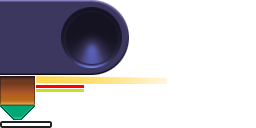
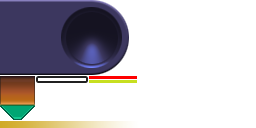
拉球效果优化

Changed region(s): [[0.125, 0.5938, 0.6562, 0.7188], [0.0, 0.9375, 0.4688, 1.0]]

diff --git a/ViolenceTable/bin/h5/Main.max.js b/ViolenceTable/bin/h5/Main.max.js
@@ -39893,7 +39893,8 @@ var TableView=(function(_super){
 	function TableView(){
 		this.ballList=null;
 		this.blockList=null;
-		this.WALL_POS=[[42,19,0,0,490,0,490,22,0,22],[528,47,0,0,26,0,26,880,0,880],[41,937,0,0,490,0,490,22,0,22],[16,52,0,0,26,0,26,880,0,880]];
+		this.WALL_POS=[];
+		// private const WALL_POS:Array=[[42,19,0,0,490,0,490,22,0,22],[528,47,0,0,26,0,26,880,0,880],[41,937,0,0,490,0,490,22,0,22],[16,52,0,0,26,0,26,880,0,880]];
 		this.WALL_POS2=[[0,0,0,0,490,0,490,22],[481,20,0,0,26,0,26,880],[0,880,0,0,490,0,490,22],[0,0,0,0,26,0,26,880]];
 		TableView.__super.call(this);
 	}
@@ -39945,11 +39946,11 @@ var TableView=(function(_super){
 
 	__proto.initBall=function(){
 		this.ballList=[];
-		for (var i=0;i < 10;i++){
-			var ball=this.addBall(200+100 *Math.floor(i / 5),300+100 *(i % 5),1,1);
+		for (var i=0;i < 1;i++){
+			var ball=this.addBall(280+100 *Math.floor(i / 5),600+100 *(i % 5),1,1);
 			ball.ballRotation=0;
 		};
-		var ball0=this.addBall(200,100,0,0);
+		var ball0=this.addBall(280,300,0,0);
 	}
 
 	/**
@@ -40161,9 +40162,13 @@ var HitBall=(function(_super){
 		this.renderTarget=null;
 		this.wing_left=null;
 		this.wing_right=null;
+		this.wing_center=null;
 		this.donwPos=null;
 		this.downImgPos=null;
-		this.pull_dis=100;
+		/**拖动最大距离*/
+		this.pull_max_dis=200;
+		/**拖动最大单侧张角弧度*/
+		this.pull_max_angel=30;
 		HitBall.__super.call(this);
 		this.boxBottom.alpha=0.9;
 		this._speedCost=0.993;
@@ -40217,43 +40222,66 @@ var HitBall=(function(_super){
 		this.renderTarget.end();
 		this.renderTarget.sourceWidth=this.renderTarget.width;
 		this.renderTarget.sourceHeight=this.renderTarget.height;this.phantom=this.phantom|| new Box();
+		this.phantom.alpha=0;
 		this.phantom.graphics.clear();
 		this.phantom.graphics.drawTexture(this.renderTarget,0,0,this.renderTarget.width,this.renderTarget.height);
-		this.phantom.alpha=0.7;
 		this.phantom.x=this.boxBall.x-this.radius;
 		this.phantom.y=this.boxBall.y-this.radius;
-		this.boxPhantom.addChild(this.phantom);
 	}
 
 	__proto.onMove=function(e){
 		var posX=(this.mouseX-this.donwPos.x);
 		var posY=(this.mouseY-this.donwPos.y);
-		var targetDis=Math.sqrt(posX *posX+posY *posY);
-		var rotation=Math.atan2(posY,posX);
-		if (targetDis <=this.pull_dis){
-			this.phantom.x=this.downImgPos.x+(this.mouseX-this.donwPos.x)-this.radius;
-			this.phantom.y=this.downImgPos.y+(this.mouseY-this.donwPos.y)-this.radius;
+		var pullDis=Math.sqrt(posX *posX+posY *posY);
+		var pullRadian=Math.atan2(posY,posX);
+		var phantomDis=pullDis *2 / 3;
+		if (phantomDis < this.pull_max_dis){
+			this.phantom.alpha=phantomDis *5 / this.pull_max_dis;
+			this.phantom.x=this.downImgPos.x+phantomDis *Math.cos(pullRadian)-this.radius;
+			this.phantom.y=this.downImgPos.y+phantomDis *Math.sin(pullRadian)-this.radius;
 			}else {
-			var targetX=Math.cos(rotation)*this.pull_dis;
-			var targetY=Math.sin(rotation)*this.pull_dis;
+			this.phantom.alpha=1;
+			var targetX=Math.cos(pullRadian)*this.pull_max_dis;
+			var targetY=Math.sin(pullRadian)*this.pull_max_dis;
 			this.phantom.x=this.downImgPos.x+targetX-this.radius;
 			this.phantom.y=this.downImgPos.y+targetY-this.radius;
 		};
-		var pullAngle=targetDis / this.pull_dis *60;
-		pullAngle=Math.min(pullAngle,60);
-		var leftAngle=rotation+pullAngle / 180 *Math.PI;this.wing_left=this.wing_left|| new Image();
+		var ballAlpha=NaN;
+		if (pullDis < this.radius *2){
+			ballAlpha=1;
+			}else {
+			ballAlpha=Math.max(-0.7 / this.radius *pullDis+2.4,0.3);
+		}
+		this.boxBall.alpha=ballAlpha;
+		this.updateWing();
+	}
+
+	__proto.updateWing=function(){
+		var disX=this.phantom.x-this.ballImage.x;
+		var disY=this.phantom.y-this.ballImage.y;
+		var phantomDis=Math.sqrt(disX *disX+disY *disY);
+		var phantomRadian=Math.atan2(disY,disX);
+		var wingRotation=phantomDis / this.pull_max_dis *this.pull_max_angel;
+		wingRotation=Math.min(wingRotation,this.pull_max_angel);
+		var leftAngle=phantomRadian+wingRotation / 180 *Math.PI;this.wing_left=this.wing_left|| new Image();
 		this.wing_left.skin="comp/pull_bar.png";
-		this.wing_left.pivotY=8;
-		this.wing_left.x=this.phantom.x+this.radius+Math.cos(leftAngle)*this.radius;
-		this.wing_left.y=this.phantom.y+this.radius+Math.sin(leftAngle)*this.radius;
+		this.wing_left.pivotY=this.wing_left.height;
+		this.wing_left.x=this.phantom.x+this.radius+Math.cos(leftAngle)*(this.radius-2);
+		this.wing_left.y=this.phantom.y+this.radius+Math.sin(leftAngle)*(this.radius-2);
 		this.wing_left.rotation=leftAngle *180 / Math.PI+90;
 		this.boxPhantom.addChild(this.wing_left);
-		var rightAngle=rotation-pullAngle / 180 *Math.PI;this.wing_right=this.wing_right|| new Image();
+		var rightAngle=phantomRadian-wingRotation / 180 *Math.PI;this.wing_right=this.wing_right|| new Image();
 		this.wing_right.skin="comp/pull_bar.png";
-		this.wing_right.x=this.phantom.x+this.radius+Math.cos(rightAngle)*this.radius;
-		this.wing_right.y=this.phantom.y+this.radius+Math.sin(rightAngle)*this.radius;
+		this.wing_right.x=this.phantom.x+this.radius+Math.cos(rightAngle)*(this.radius-2);
+		this.wing_right.y=this.phantom.y+this.radius+Math.sin(rightAngle)*(this.radius-2);
 		this.wing_right.rotation=rightAngle *180 / Math.PI-90;
 		this.boxPhantom.addChild(this.wing_right);
+		var pullRotation=phantomRadian *180 / Math.PI;this.wing_center=this.wing_center|| new Image();
+		this.wing_center.graphics.clear();
+		this.wing_center.graphics.drawPie(this.phantom.x+this.radius,this.phantom.y+this.radius,this.radius+this.wing_left.height-2,pullRotation-wingRotation,pullRotation+wingRotation,"#d1aa26");
+		this.boxPhantom.addChild(this.wing_center);
+		this.boxPhantom.addChild(this.phantom);
+		this.wing_center.alpha=this.wing_left.alpha=this.wing_right.alpha=(phantomDis-this.pull_max_dis / 5)/ this.pull_max_dis;
 	}
 
 	__proto.onUp=function(e){
